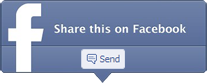
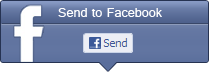
Game Pages Share button redesing
Game Pages Share button redesing

Changed region(s): [[0.0, 0.0, 1.0, 1.0], [0.2609, 0.1111, 0.7826, 0.25], [0.2609, 0.1111, 0.3188, 0.1667]]

diff --git a/app/webroot/css/game.css b/app/webroot/css/game.css
@@ -53,7 +53,7 @@
 .rating_5 { background-position:0 0; }
 .addthis_button{margin-right:12px;}
 
-.face_send{float:left; margin:10px; margin-left:40px; width:207px; height:83px; background-image:url(../img/t_gamepage_facebooksend.png); background-repeat:no-repeat;}
-.twitter_twit{float:left; margin:10px; width:209px; height:85px; background-image:url(../img/t_gamepage_twit.png); background-repeat:no-repeat;}
-.google_plus {float:left; margin:10px; width:209px; height:85px; background-image:url(../img/t_gamepage_gplus.png); background-repeat:no-repeat;}
-.pin_pinit{float:left; margin:10px; width:207px; height:83px; background-image:url(../img/t_gamepage_pinit.png); background-repeat:no-repeat;}
+.face_send{float:left; margin:10px; margin-left:40px; width:209px; height:72px; background-image:url(../img/t_gamepage_facebooksend.png); background-repeat:no-repeat;}
+.twitter_twit{float:left; margin:10px; width:209px; height:72px; background-image:url(../img/t_gamepage_twit.png); background-repeat:no-repeat;}
+.google_plus {float:left; margin:10px; width:209px; height:72px; background-image:url(../img/t_gamepage_gplus.png); background-repeat:no-repeat;}
+.pin_pinit{float:left; margin:10px; width:209px; height:72px; background-image:url(../img/t_gamepage_pinit.png); background-repeat:no-repeat;}
